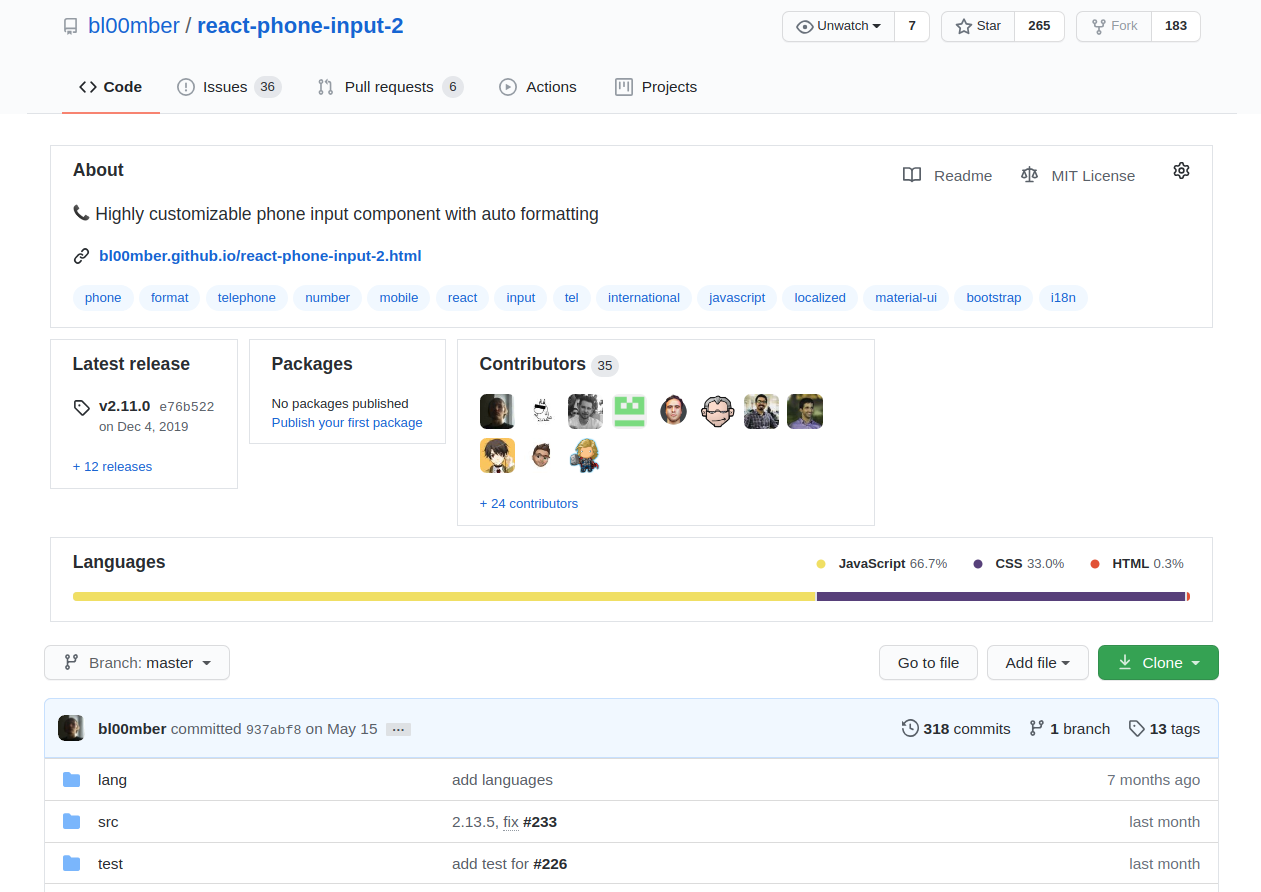
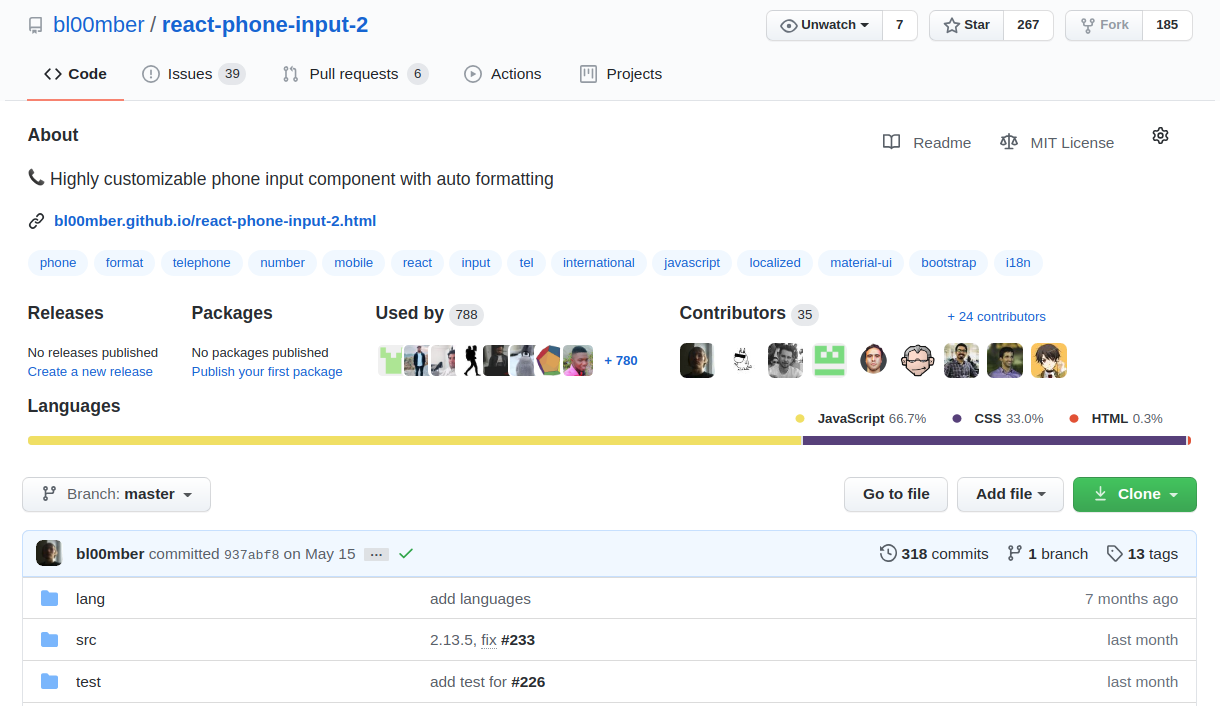
update

diff --git a/style.css b/style.css
@@ -18,10 +18,6 @@
   margin: auto;
 }
 
-.repository-content .Box-row {
-  border-top: 1px solid #dcdcdc !important;
-}
-
 .repository-content > .gutter-condensed {
   flex-direction: column-reverse !important;
   align-items: center;
@@ -33,6 +29,19 @@
 
 .repository-content > .gutter-condensed > div:nth-child(1) {
   max-width: 1100px;
+}
+
+/*----------- Repo folders -----------*/
+.repository-content .Box .Box-header {
+  padding: 10px 16px;
+}
+
+.repository-content .Box .Box-row:not(:first-child) {
+  border-top: 1px solid #dcdcdc !important;
+}
+
+.repository-content .Box .Box-row {
+  padding: 6px 16px !important:
 }
 
 /*----------- Repo information -----------*/
@@ -47,7 +56,8 @@
 }
 
 .repository-content .BorderGrid--spacious .BorderGrid-cell {
-  padding: 10px 20px;
+  padding: 8px 20px 0 0;
+  border: 0;
 }
 
 .repository-content .BorderGrid-row {
@@ -79,27 +89,80 @@
   right: 70px;
 }
 
+/*Settings icon*/
+.repository-content .BorderGrid-row:nth-child(1) .octicon-gear {
+  position: relative;
+  top: 5px;
+}
+
 /*Contributors*/
 .repository-content .BorderGrid-row:nth-last-child(2) {
   max-width: 380px;
+}
+
+.repository-content .BorderGrid-row:nth-last-child(2) .mb-n2 {
+  max-height: 40px;
+  overflow: hidden;
+}
+
+.repository-content .BorderGrid-row:nth-last-child(2) .BorderGrid-cell {
+  position: relative;
+}
+
+.repository-content .BorderGrid-row:nth-last-child(2) .mt-3:nth-last-child(1) {
+  position: absolute;
+  top: -5px;
+  right: 47px;
 }
 
 /*Languages legend*/
 .repository-content .BorderGrid-row:nth-last-child(1) {
   width: 100%;
 }
+
 .repository-content .BorderGrid-row:nth-last-child(1) > div ul {
   position: absolute;
   top: 15px;
   right: 10px;
 }
 
+.repository-content .BorderGrid-row:nth-last-child(1) .BorderGrid-cell {
+  border: none;
+  padding: 0px;
+}
+
 
 /*----------- Overall -----------*/
+.btn {
+  background: linear-gradient(#ffffff, #eef2f6);
+  font-weight: 600;
+}
+
+.get-repo-btn:hover,
+.commit-group .btn:hover,
+.paginate-container .btn:hover {
+  background: #0366d6;
+}
+
+.btn-primary {
+  background: linear-gradient(#3dc65a, #36a950);
+  font-weight: 600;
+}
+
 .pagehead {
   display: flex;
   flex-direction: column;
   align-items: center;
+  margin-bottom: 15px !important;
+}
+
+.pagehead > div:first-child {
+  margin-bottom: 5px !important;
+  padding: 0 20px !important;
+}
+
+.pagehead .UnderlineNav {
+  padding: 0 20px !important;
 }
 
 .pagehead > div,

diff --git a/README.md b/README.md
@@ -10,4 +10,6 @@ The new styles are trying to spread to all available width of the screen on big 
 
 I think the authors of new UI tried to use the "scientific research" which presents people's eyes movement heatmap that is mostly distributed on the left side. But you don't need heatmaps to make good UI. Moreover, this research most likely was performed not on _software developers who use Github_. This does not make any sense I think, to break normal, centered, compact view, and shift it to the left side of the screen just to match it with some irrelevant heatmap. **Sometimes you just don't need a bunch of scientific papers to make something that is good and productive.**
 
-Another concern about the new styles is that they use round avatars which do not add anything useful, they just reduce the quantity of information that you are seeing on the avatar image. This is the second change that is partially reversed.
+The button gradient removal is also a poor design decision. A change to make a change? Just to follow Material UI guidelines? What's Github now, a mobile app?
+
+Another concern about the new styles is that they use round avatars which do not add anything useful, they just reduce the quantity of information that you are seeing on the avatar image. This is the change that is also partially reversed.
